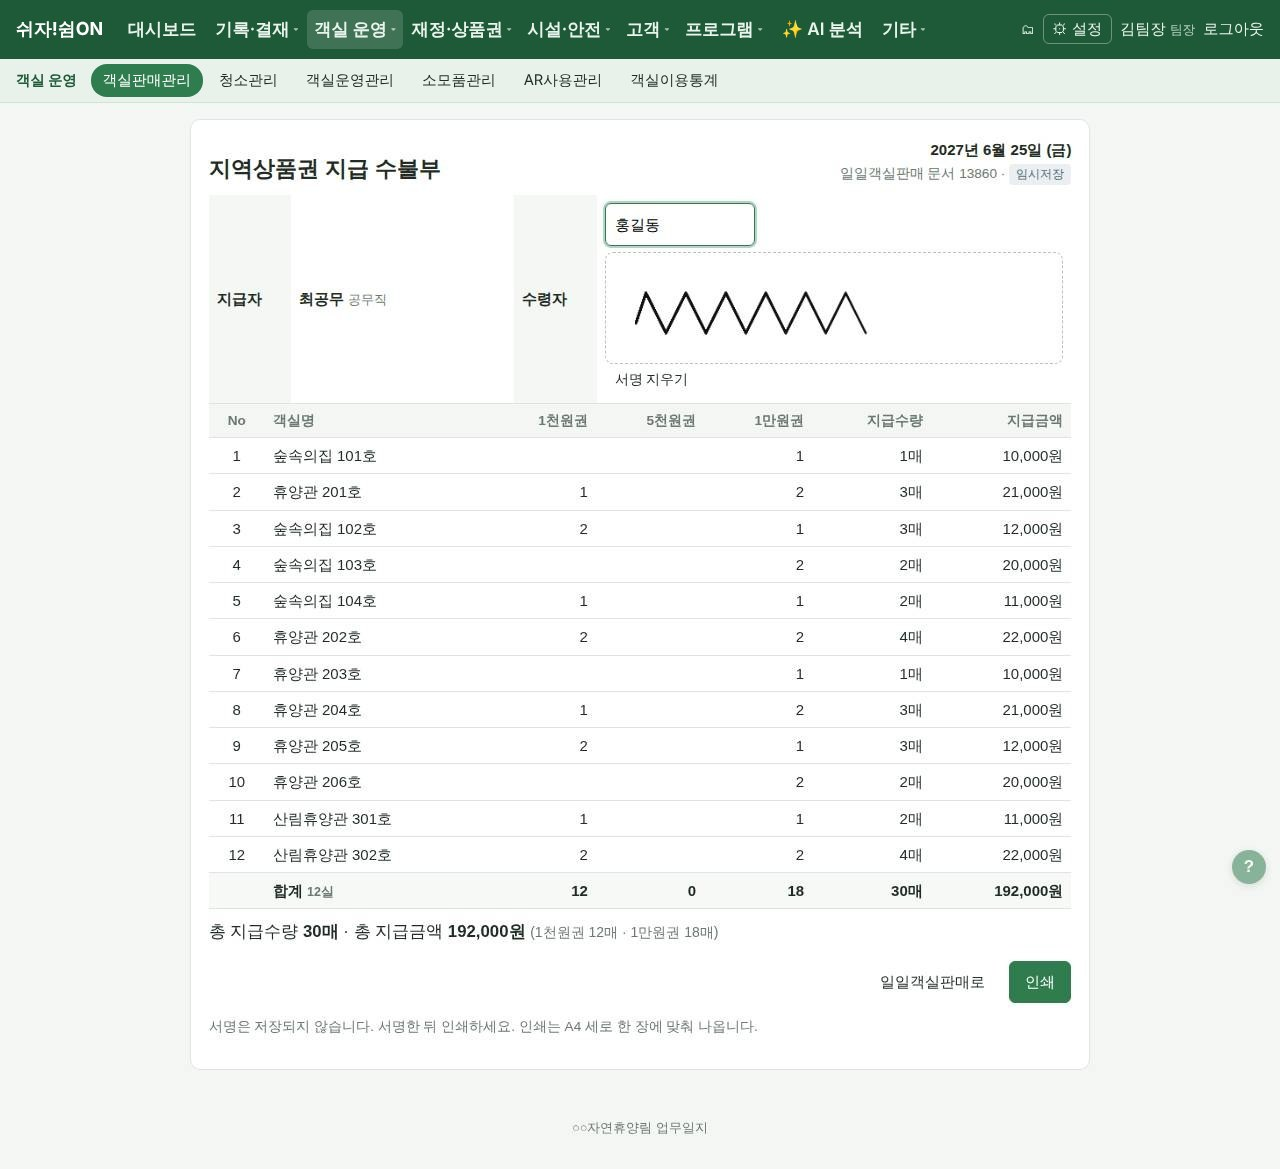
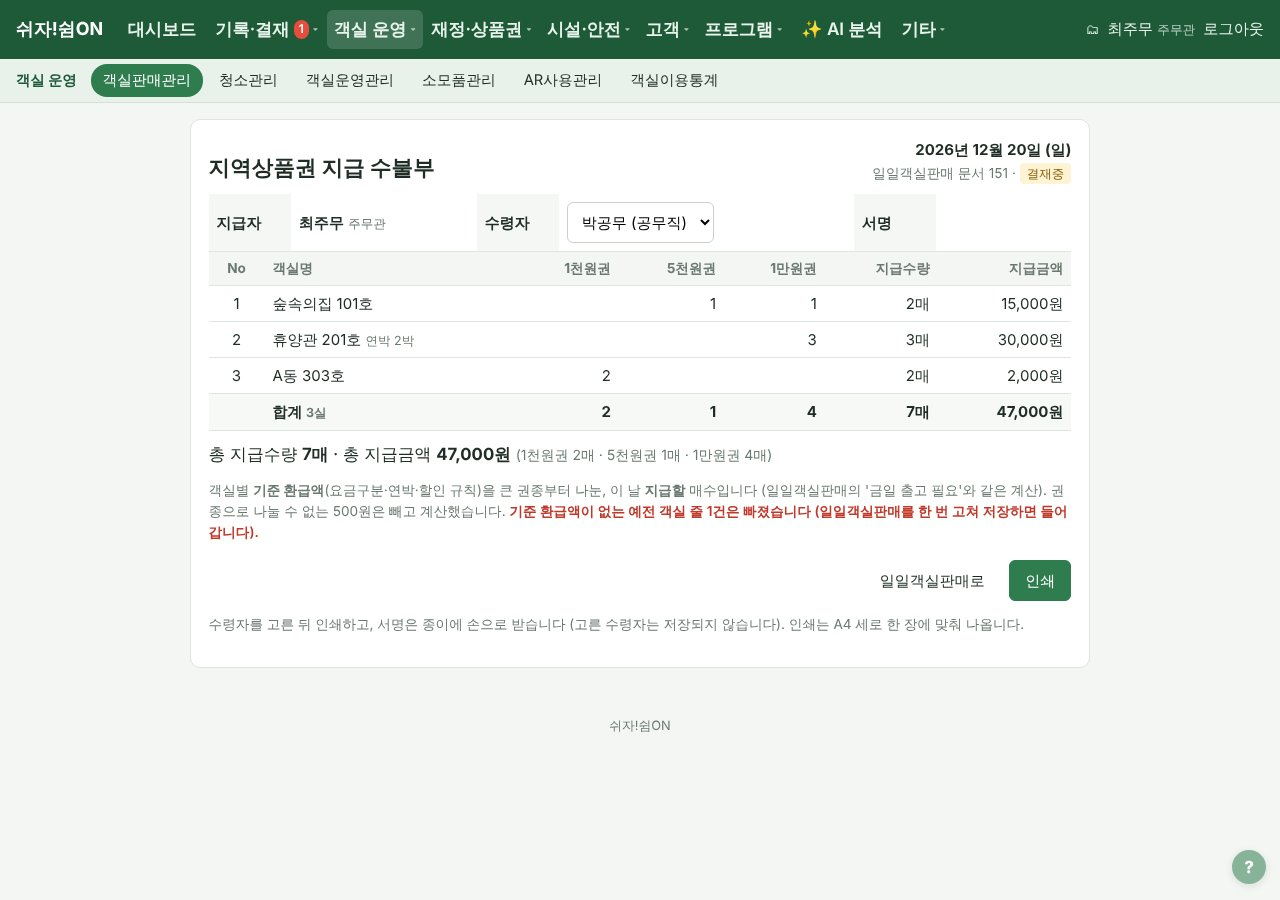
수불부: 수령자는 운영관리 권한 직원 중 선택(그 날 받는 담당자 미리 선택), 서명은 인쇄 후 손으로 쓰는 빈칸
- 화면 서명(canvas) 제거, 서명 칸만
- 휴대폰에서 표가 세로로 깨지지 않게 표 안 가로 스크롤 (인쇄는 그대로 한 장)
- 도움말(+캡처)·README·업데이트 내역

Claude-Session: https://claude.ai/code/session_01Lr6yxKyasrSL9QLfMX5TX8

diff --git a/assets/style.css b/assets/style.css
@@ -1216,11 +1216,9 @@ label .tm-pick { display: flex; margin-top: .25rem; }
 .payout-meta { display: flex; flex-direction: column; align-items: flex-end; gap: 2px; }
 .payout-sign th { width: 5.5em; background: #f4f7f4; }
 .payout-sign td { vertical-align: middle; }
-.sign-cell { width: 55%; }
-.sign-name { width: 10em; margin-bottom: 6px; }
-.sign-pad { position: relative; border: 1px dashed #b9c4bc; border-radius: 8px; background: #fff; max-width: 520px; }
-.sign-pad canvas { display: block; width: 100%; height: 110px; touch-action: none; cursor: crosshair; }
-.sign-hint { position: absolute; inset: 0; display: flex; align-items: center; justify-content: center; color: #a3ada6; pointer-events: none; }
+.payout-sign td.sign-box { width: 9em; min-width: 6em; height: 2.6rem; }
+.payout-sign th, .payout-sign td, .payout-table th, .payout-table td { white-space: nowrap; } /* 휴대폰: 글자가 세로로 깨지지 않게 표 안에서 옆으로 */
+.payout-receiver { width: auto; min-width: 9em; }
 .payout-table th, .payout-table td { padding: 6px 8px; }
 .payout-total { font-size: 1.05rem; margin: 10px 0 4px; }
 @media print {
@@ -1229,9 +1227,9 @@ label .tm-pick { display: flex; margin-top: .25rem; }
   body.payout-printmode main.container > .print-head { display: none !important; }
   body.payout-printmode main.container { max-width: none; padding: 0; margin: 0; }
   .payout { max-width: none; box-shadow: none; border: 0; padding: 0; }
-  .payout .sign-pad { border: 1px solid #555; }
-  .payout input.sign-name { border: 0 !important; border-bottom: 1px solid #555 !important; border-radius: 0; box-shadow: none; background: none; }
-  .payout .sign-name::placeholder { color: transparent; }
+  .payout .payout-receiver { appearance: none; -webkit-appearance: none; border: 0; background: none; padding: 0; font-weight: 700; color: #000; }
+  .payout-sign td.sign-box { border: 1px solid #555; }
+  .payout .table-scroll { overflow: visible; }
   .payout-table { page-break-inside: avoid; }
 }
 

diff --git a/rooms_payout.php b/rooms_payout.php
@@ -3,8 +3,9 @@
  * 일일객실판매 › 지역상품권 수불부 (지급 대장) — rooms_payout.php?id=일일객실판매 문서
  *   그 날 상품권을 '지급할' 객실 = 객실별 기준 환급액(요금구분·연박·할인 규칙, sales_lines.refund_expected)을
  *   큰 권종부터 나눈 매수(voucher_split — 일일객실판매의 '금일 출고 필요'와 같은 규칙)와 금액, 총 매수·금액.
- *   (실제로 입력한 환급 매수가 아니라 지급해야 할 양. 지급자 = 로그인한 사람(자동), 수령자 = 화면에서 서명.)
- *   A4 세로 한 장으로 인쇄 (내용이 많으면 자동으로 줄임). 서명은 저장하지 않고 인쇄에만 쓴다.
+ *   (실제로 입력한 환급 매수가 아니라 지급해야 할 양. 지급자 = 로그인한 사람(자동), 수령자 = 운영관리 권한 직원 중에서 고름
+ *    — 그 날 불출의 받는 담당자가 있으면 미리 선택, 서명은 인쇄한 종이에 손으로 쓰는 빈칸.)
+ *   A4 세로 한 장으로 인쇄 (내용이 많으면 자동으로 줄임). 고른 수령자는 저장하지 않고 인쇄에만 쓴다.
  */
 require __DIR__ . '/app/bootstrap.php';
 
@@ -29,6 +30,10 @@ foreach ($payload['lines'] as $l) {
 $total = array_fill_keys($denoms, 0);
 foreach ($rows as $r) foreach ($denoms as $d) $total[$d] += (int) ($r['qty'][$d] ?? 0);
 $date = $journal['work_date'];
+// 수령자: 상품권 받는 담당자와 같은 기준(운영관리 메뉴 권한), 그 날 불출 기록의 받는 담당자를 미리 고름
+$holders = vault_holders();
+$dayHolder = 0;
+foreach (vault_records($date, $date) as $rec) if ($rec['kind'] === 'issue' && $rec['holder_id']) $dayHolder = (int) $rec['holder_id'];
 
 layout_header('지역상품권 수불부', 'rooms');
 ?>
@@ -41,21 +46,24 @@ layout_header('지역상품권 수불부', 'rooms');
     </div>
   </div>
 
+  <div class="table-scroll">
   <table class="table payout-sign">
     <tr>
       <th>지급자</th><td><b><?= e($user['name']) ?></b> <small class="muted"><?= e(rank_name($user['rank_level'])) ?></small></td>
       <th>수령자</th>
-      <td class="sign-cell">
-        <input class="sign-name" placeholder="수령자 이름" aria-label="수령자 이름">
-        <div class="sign-pad"><canvas data-sign width="520" height="120" aria-label="수령자 서명"></canvas><span class="sign-hint no-print">여기에 서명</span></div>
-        <button type="button" class="btn small ghost no-print" data-sign-clear>서명 지우기</button>
-      </td>
+      <td><select class="payout-receiver" aria-label="수령자">
+        <option value="">- 수령자 -</option>
+        <?php foreach ($holders as $h): ?><option <?= (int) $h['id'] === $dayHolder ? 'selected' : '' ?>><?= e($h['name']) ?> (<?= e(rank_name($h['rank_level'])) ?>)</option><?php endforeach ?>
+      </select></td>
+      <th>서명</th><td class="sign-box" aria-label="수령자 서명 (인쇄 후 손으로)"></td>
     </tr>
   </table>
+  </div>
 
   <?php if (!$rows): ?>
     <p class="muted">이 날 지역상품권을 지급할 객실이 없습니다 (입실인원을 입력한 객실의 기준 환급액이 모두 0원).</p>
   <?php else: ?>
+  <div class="table-scroll">
   <table class="table payout-table">
     <thead><tr><th class="center">No</th><th>객실명</th><?php foreach ($denoms as $d): ?><th class="right"><?= e(denom_label($d)) ?></th><?php endforeach ?><th class="right">지급수량</th><th class="right">지급금액</th></tr></thead>
     <tbody>
@@ -69,6 +77,7 @@ layout_header('지역상품권 수불부', 'rooms');
       <?php foreach ($denoms as $d): ?><th class="right"><?= number_format($total[$d]) ?></th><?php endforeach ?>
       <th class="right"><?= number_format(array_sum($total)) ?>매</th><th class="right"><?= e(won(voucher_amount($total))) ?></th></tr></tfoot>
   </table>
+  </div>
   <p class="payout-total">총 지급수량 <b><?= number_format(array_sum($total)) ?>매</b> · 총 지급금액 <b><?= e(won(voucher_amount($total))) ?></b>
     <small class="muted">(<?= e(implode(' · ', array_map(fn($d) => denom_label($d) . ' ' . number_format($total[$d]) . '매', array_filter($denoms, fn($d) => $total[$d] > 0)))) ?>)</small></p>
   <?php endif ?>
@@ -80,22 +89,10 @@ layout_header('지역상품권 수불부', 'rooms');
     <a class="btn ghost" href="<?= e(url('view.php?id=' . (int) $journal['id'])) ?>">일일객실판매로</a>
     <button type="button" class="btn primary" onclick="window.print()">인쇄</button>
   </div>
-  <p class="muted small no-print">서명은 저장되지 않습니다. 서명한 뒤 인쇄하세요. 인쇄는 A4 세로 한 장에 맞춰 나옵니다.</p>
+  <p class="muted small no-print">수령자를 고른 뒤 인쇄하고, 서명은 종이에 손으로 받습니다 (고른 수령자는 저장되지 않습니다). 인쇄는 A4 세로 한 장에 맞춰 나옵니다.</p>
 </section>
 <script>
 (function () {
-  // 수령자 서명 (마우스·손가락·펜)
-  const cv = document.querySelector('[data-sign]');
-  const ctx = cv.getContext('2d');
-  const hint = document.querySelector('.sign-hint');
-  ctx.lineWidth = 2.5; ctx.lineCap = 'round'; ctx.lineJoin = 'round'; ctx.strokeStyle = '#111';
-  let drawing = false;
-  const pos = (e) => { const r = cv.getBoundingClientRect(); return [(e.clientX - r.left) * cv.width / r.width, (e.clientY - r.top) * cv.height / r.height]; };
-  cv.addEventListener('pointerdown', (e) => { drawing = true; cv.setPointerCapture(e.pointerId); const [x, y] = pos(e); ctx.beginPath(); ctx.moveTo(x, y); if (hint) hint.hidden = true; e.preventDefault(); });
-  cv.addEventListener('pointermove', (e) => { if (!drawing) return; const [x, y] = pos(e); ctx.lineTo(x, y); ctx.stroke(); e.preventDefault(); });
-  ['pointerup', 'pointercancel', 'pointerleave'].forEach((t) => cv.addEventListener(t, () => { drawing = false; }));
-  document.querySelector('[data-sign-clear]').addEventListener('click', () => { ctx.clearRect(0, 0, cv.width, cv.height); if (hint) hint.hidden = false; });
-
   // 인쇄: A4 세로 한 장 — 넘치면 줄여서 맞춘다
   const box = document.querySelector('[data-payout]');
   window.addEventListener('beforeprint', () => {

diff --git a/app/help.php b/app/help.php
@@ -210,7 +210,7 @@ HTML],
   <li>할인에 체크하면 옆의 <b>할인사유</b>(다자녀·지역주민·장애인·단체·업무예약)를 꼭 고릅니다. 고르지 않으면 붉게 표시되고 저장되지 않습니다. 사유는 보기 화면과 수정 이력에 나옵니다. 사유가 <b>단체</b>이면 설정의 단체 할인율이 적용됩니다(설정했을 때). <b>업무예약</b>은 <b>전액 무료</b>(0원)이고 지역상품권 환급이 없습니다.</li>
   <li><b>지역상품권 환급</b>: 객실별 권종 매수. 기준 환급액과 다르면 붉게 표시되고 저장 시 확인합니다. 아래에 환급 합계와 남은 재고.
     <b>연박</b>(2·3박)은 <b>입실일에 숙박 전체</b>를 한 번에 줍니다 — 2박째부터는 그 날짜의 요금구분(주말·성수기) 기준액을 더하고, 연박 둘째 날부터는 기준 0원('연박 중 · 입실일 지급', 기준 아래 작은 글씨). <b>주중(비수기 평일) 30% 할인 객실과 업무예약은 환급이 없습니다</b>(기준 0원). 주말·성수기 할인, 단체 할인율을 적용한 단체는 기준대로 환급합니다.
-    <b>수불부</b>: 일일객실판매 보기 화면 아래 '인쇄' 옆 <b>수불부</b> 버튼 — 그 날 상품권을 <b>지급할</b> 객실별 권종 매수·지급금액과 총 지급수량·총 지급금액 (실제 입력한 환급이 아니라 객실별 <b>기준 환급액</b>을 큰 권종부터 나눈 매수, 연박은 박수만큼 표시). 지급자는 로그인한 사람으로 자동, 수령자는 이름을 적고 화면에 서명(손가락·마우스·펜)한 뒤 <b>인쇄</b>(A4 세로 한 장). 서명은 저장되지 않습니다.
+    <b>수불부</b>: 일일객실판매 보기 화면 아래 '인쇄' 옆 <b>수불부</b> 버튼 — 그 날 상품권을 <b>지급할</b> 객실별 권종 매수·지급금액과 총 지급수량·총 지급금액 (실제 입력한 환급이 아니라 객실별 <b>기준 환급액</b>을 큰 권종부터 나눈 매수, 연박은 박수만큼 표시). 지급자는 로그인한 사람으로 자동, <b>수령자</b>는 운영관리 권한이 있는 직원 중에서 고르고(그 날 상품권 불출의 받는 담당자가 미리 골라져 있음) <b>인쇄</b>(A4 세로 한 장)한 뒤 <b>서명 칸에 손으로</b> 받습니다. 고른 수령자는 저장되지 않습니다.
     <b>금일 출고 필요</b>: 입실인원을 입력한 객실의 기준 환급액 합계를 큰 권종부터 나눈 매수·금액 — 오늘 금고에서 불출해야 할 양 (현재고보다 많으면 붉게).</li>
   <li>저장하면 그 날 매출보고의 쉬자파크숙박(입실)과 다음 날 (퇴실)이 자동으로 맞춰집니다.</li>
 </ul>

diff --git a/app/changelog.php b/app/changelog.php
@@ -7,6 +7,11 @@ defined('APP_ROOT') || exit;
  *   ['date' => 'YYYY-MM-DD', 'title' => '한 줄 요약', 'items' => ['자세한 내용', ...], 'menu' => '관련 메뉴(선택)']
  */
 const CHANGELOG = [
+    ['date' => '2026-10-25', 'title' => '수불부: 수령자 선택 · 서명은 종이에 손으로', 'menu' => '객실 운영', 'items' => [
+        '수불부의 수령자는 운영관리 권한이 있는 직원 중에서 고릅니다. 그 날 상품권 불출의 받는 담당자가 미리 골라져 있습니다.',
+        '화면에 서명하던 큰 칸을 없애고, 인쇄한 종이에 손으로 서명하는 작은 빈칸으로 바꿨습니다.',
+        '휴대폰에서 표 글자가 세로로 깨지지 않게, 표 안에서 옆으로 밀어 보게 했습니다.',
+    ]],
     ['date' => '2026-10-25', 'title' => '수불부: 실제 지급한 것 대신 지급할 상품권으로', 'menu' => '객실 운영', 'items' => [
         "일일객실판매의 '수불부'에 실제로 입력한 환급이 아니라, 그 날 상품권을 지급할 객실과 객실별 권종 매수·금액, 총 매수·금액이 나옵니다.",
         "객실마다 기준 환급액(요금구분·연박·할인 규칙)을 큰 권종부터 나눈 매수로, 일일객실판매의 '금일 출고 필요'와 같은 계산입니다. 연박 객실은 '연박 n박'으로 표시됩니다.",

diff --git a/README.md b/README.md
@@ -325,7 +325,7 @@
     (그래도 저장할 수 있고, 저장 후 상단에 '확인 필요' 안내가 남습니다)
   - 표 아래에 **금일 출고 필요(매수·금액)**, **환급 합계(권종별 매수·금액)와 남은 재고(매수·금액)**가 실시간으로 표시됩니다.
   기준 환급액(`room_refund_stay()`): 주중(비수기 평일) 할인율 적용·업무예약 할인은 0(`room_dc_refundable()` — 주말·성수기 할인과 단체 할인율 적용 단체는 기준대로 환급), 앞선 연박이 이어지는 날(`turnover_continued()`) 0, 연박 N박은 입실일에 1박째(고른 요금구분) + 2박째부터 그 날짜의 `rate_for_date` 기준액을 합산 — 화면은 `data-refund-next`·`data-cont`로 같은 계산, 저장 시 `sales_lines.refund_expected`.
-  **수불부**(`rooms_payout.php?id=`, 일일객실판매 보기의 '인쇄' 옆 버튼, 객실관리 메뉴 권한): 그 문서의 객실별 **지급할** 권종 매수·금액(실제 환급 입력이 아니라 `sales_lines.refund_expected` 를 `voucher_split()` 으로 큰 권종부터 나눔 — 금일 출고 필요와 같은 규칙, 나머지 금액·기준 없는 예전 줄은 안내), 총 지급수량·금액. 지급자 = 로그인한 사람, 수령자 = 이름 입력 + canvas 서명(저장 안 함). 인쇄는 A4 세로, `beforeprint`에서 넘치면 `zoom`으로 한 장.
+  **수불부**(`rooms_payout.php?id=`, 일일객실판매 보기의 '인쇄' 옆 버튼, 객실관리 메뉴 권한): 그 문서의 객실별 **지급할** 권종 매수·금액(실제 환급 입력이 아니라 `sales_lines.refund_expected` 를 `voucher_split()` 으로 큰 권종부터 나눔 — 금일 출고 필요와 같은 규칙, 나머지 금액·기준 없는 예전 줄은 안내), 총 지급수량·금액. 지급자 = 로그인한 사람, 수령자 = `vault_holders()`(운영관리 권한) 중 선택(그 날 불출의 받는 담당자를 미리 선택, 저장 안 함), 서명 = 인쇄 후 손으로 쓰는 빈칸. 인쇄는 A4 세로, `beforeprint`에서 넘치면 `zoom`으로 한 장.
   금일 출고 필요 = 입실인원을 입력한 객실마다 기준 환급액(`room_refund`, 요금구분별)을 큰 권종부터 나눈 매수의 합(나눌 수 없는 나머지는 안내), 현재고보다 많으면 붉게 (`assets/app.js`). 재고보다 많으면 붉게 표시되고 저장 시 알립니다.
 - 금액은 화면에서 미리 보여주지만, 저장할 때 서버가 상품 가격으로 **다시 계산**합니다.
 
